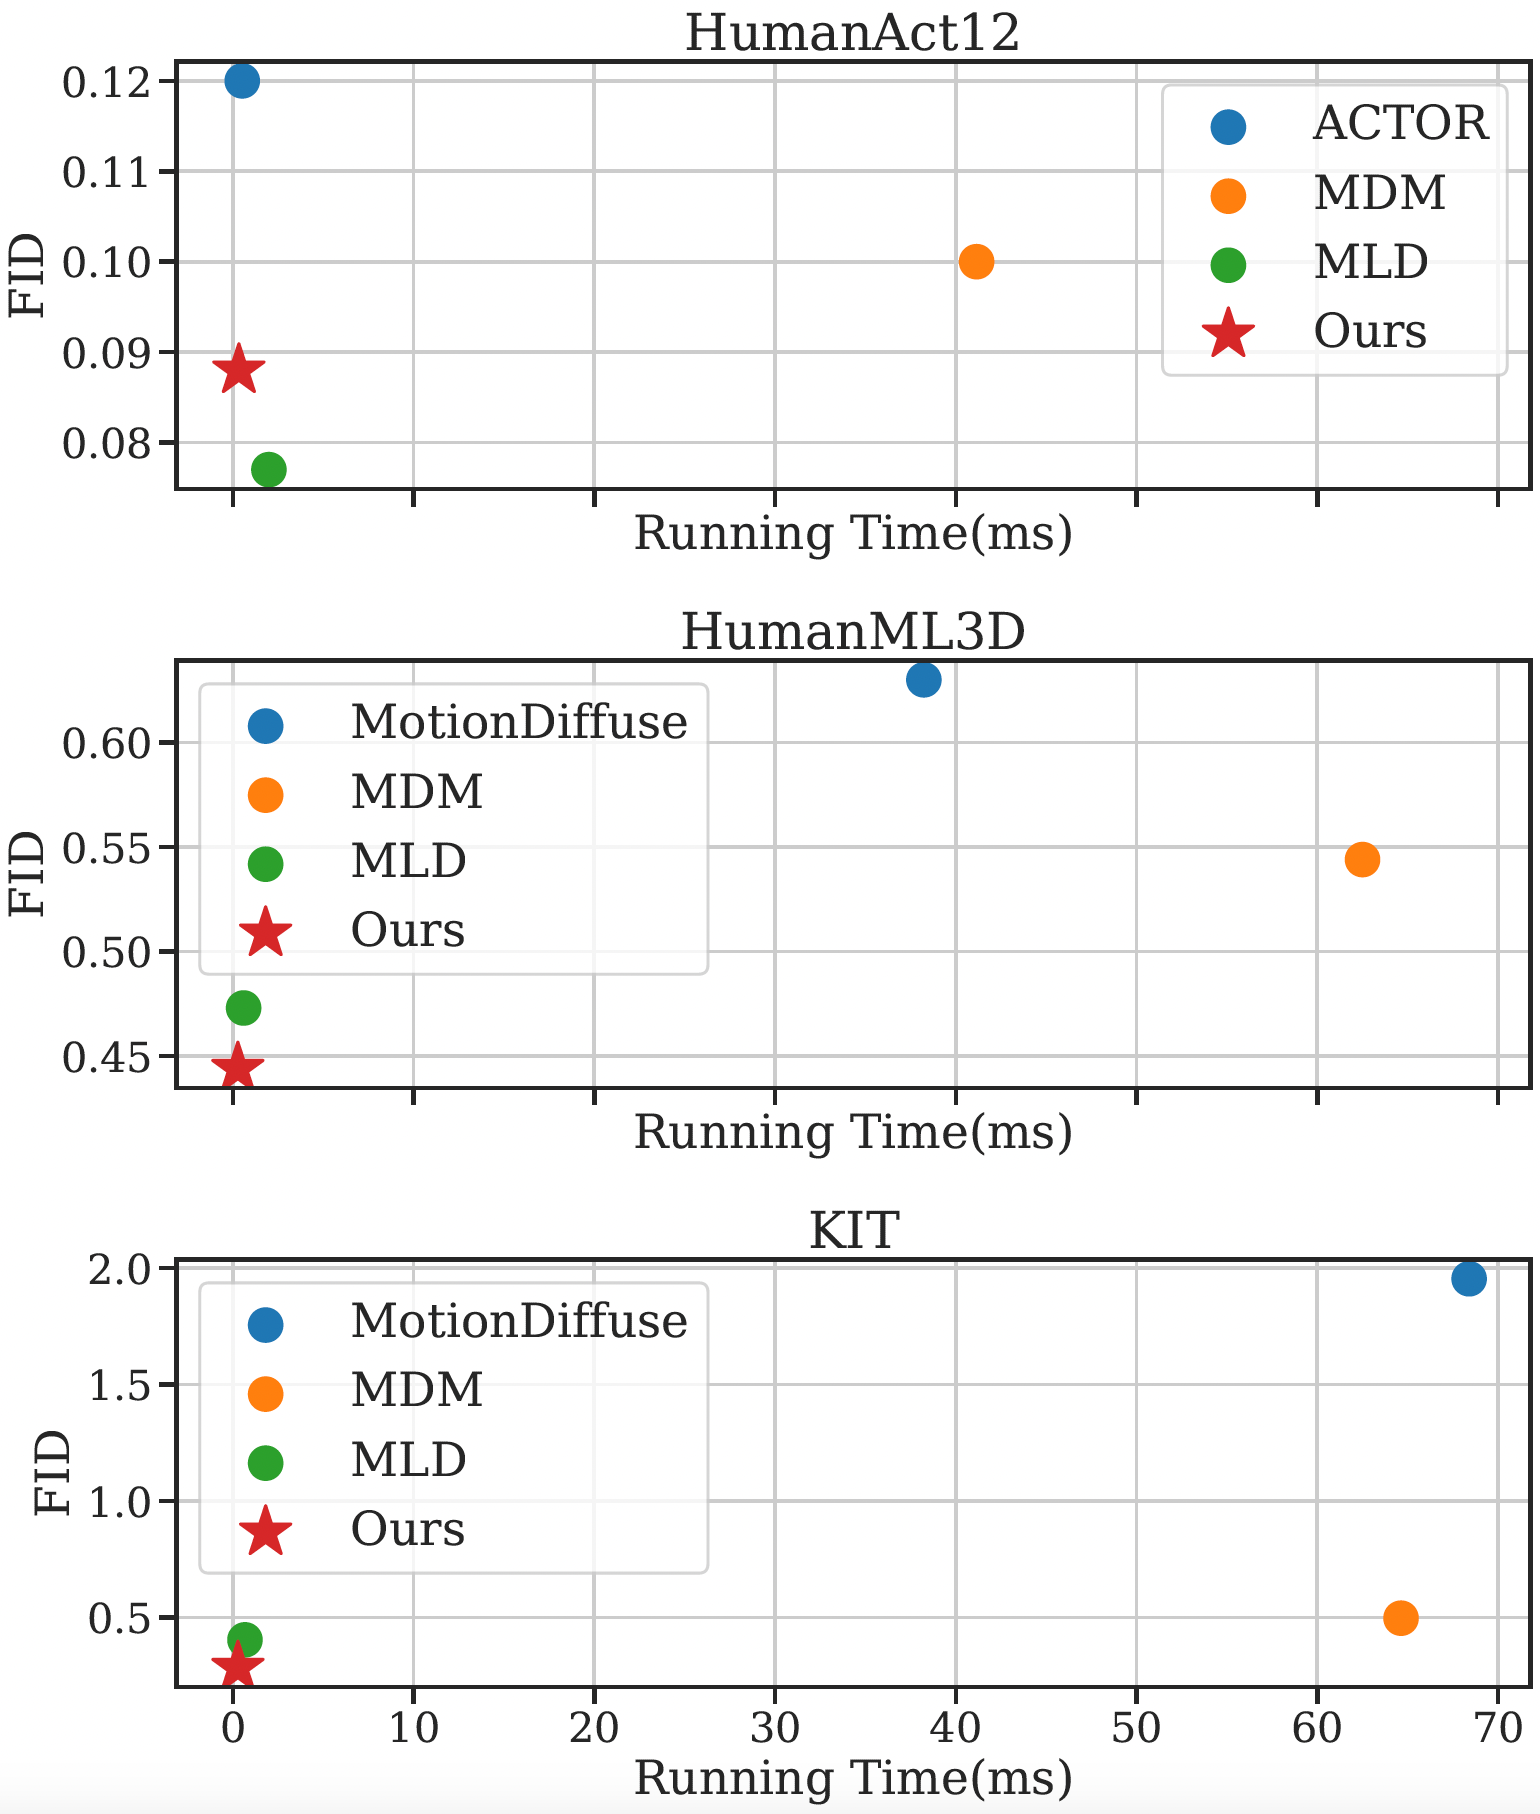
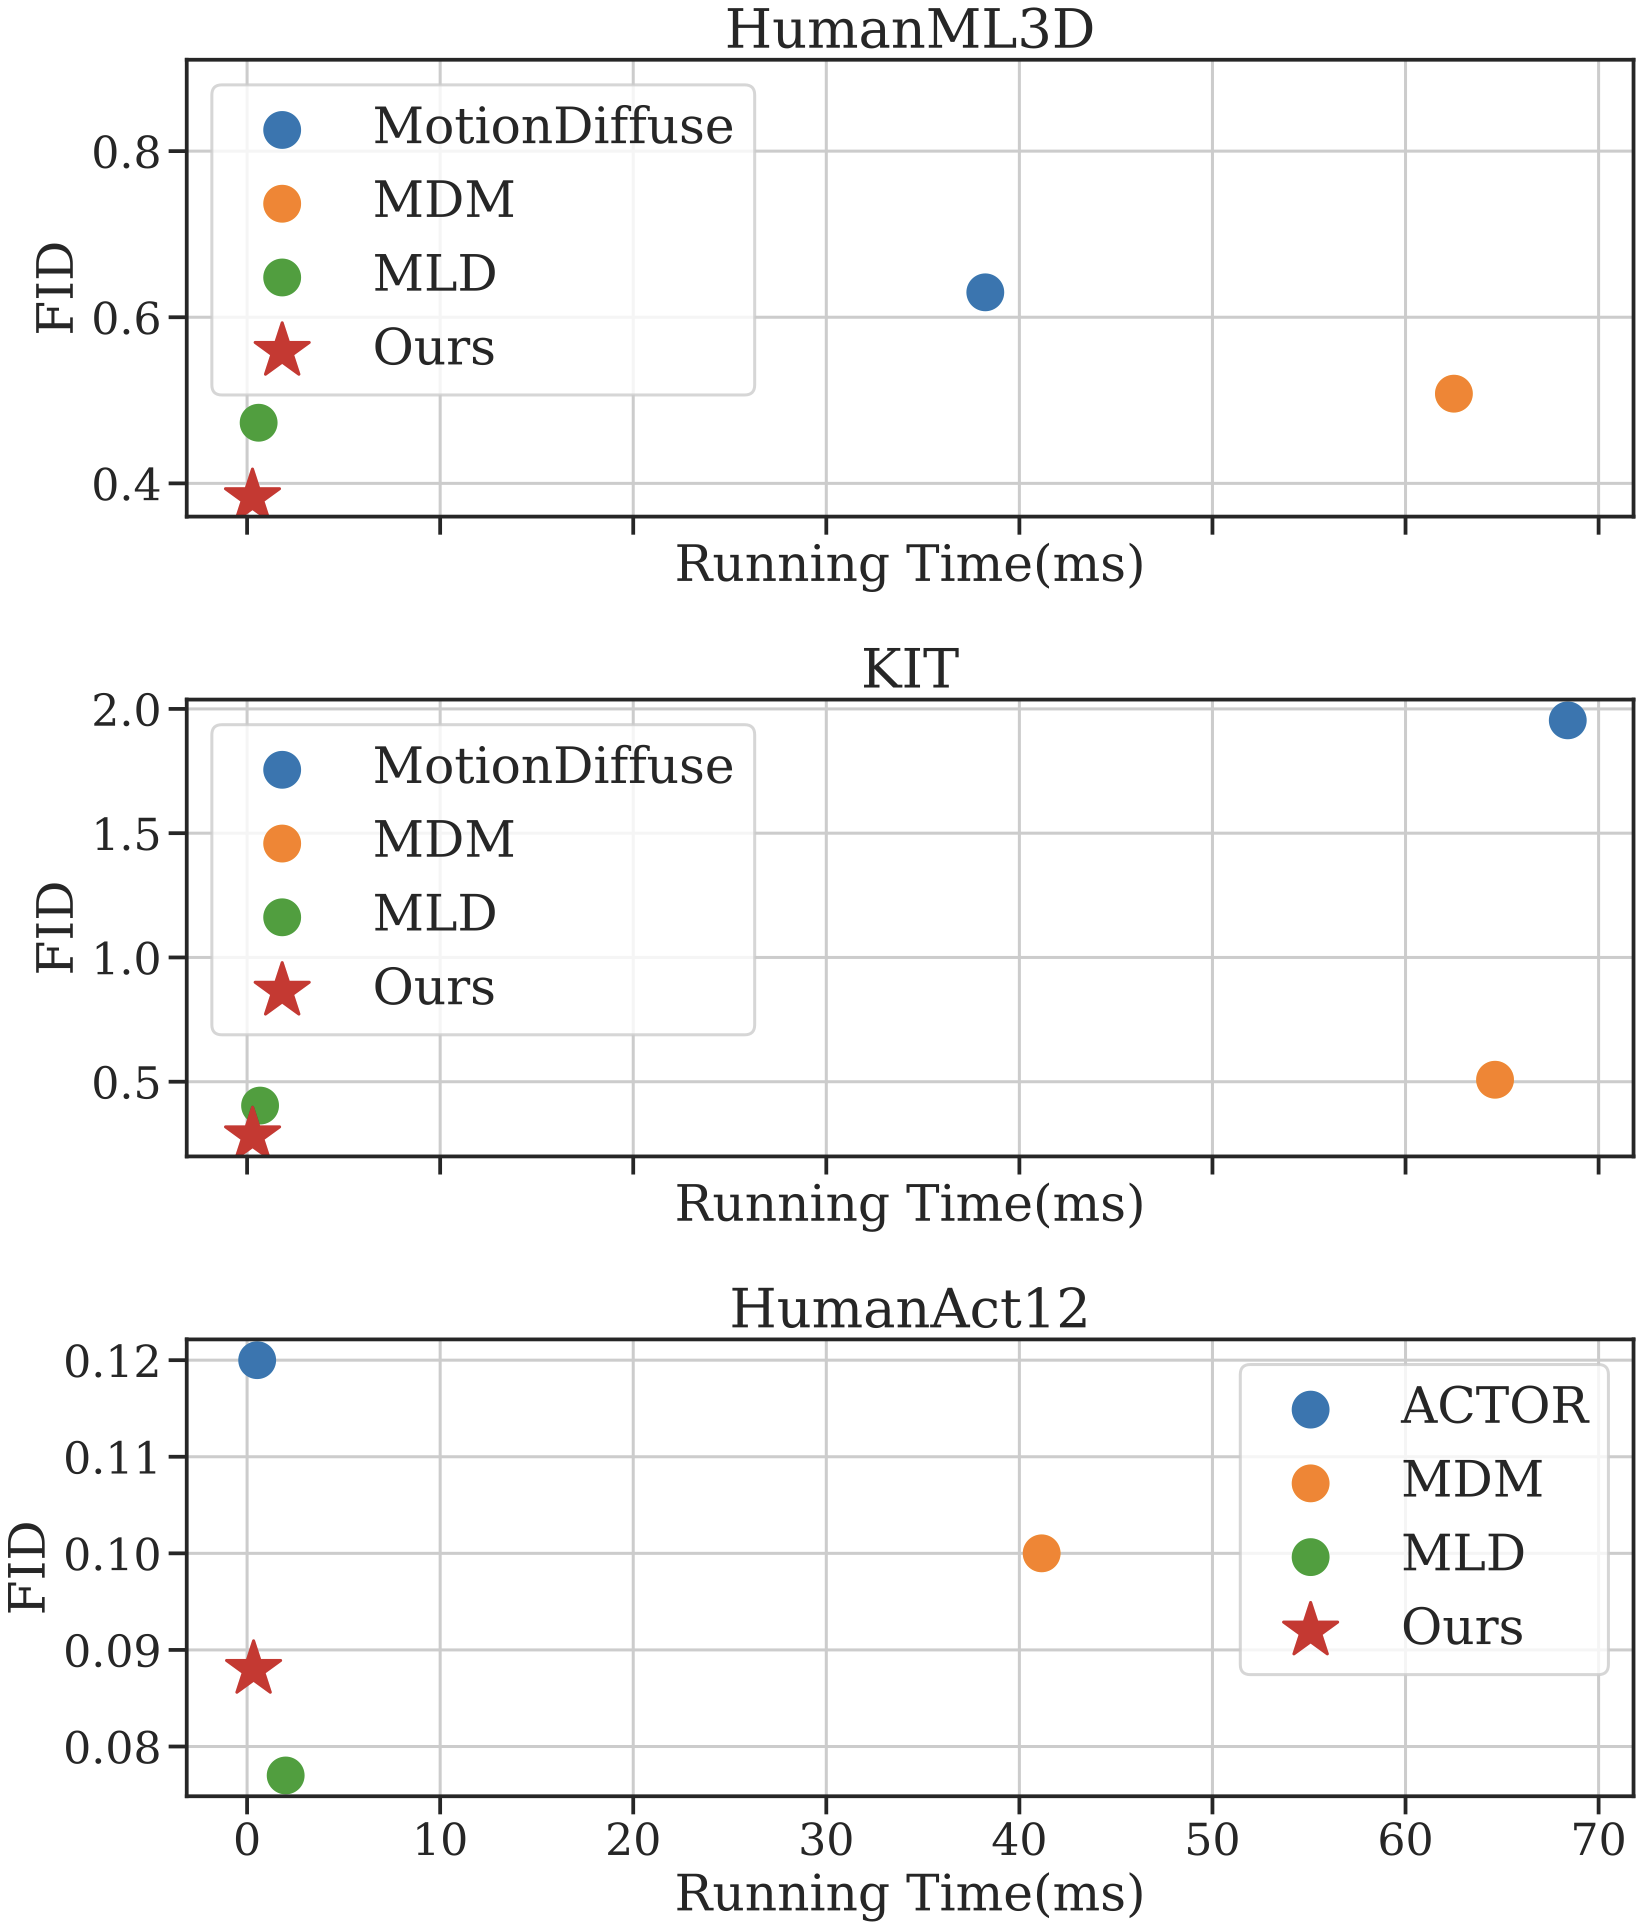
roadmap update

diff --git a/projects/EMDM/index.html b/projects/EMDM/index.html
@@ -163,7 +163,7 @@ We introduce Efficient Motion Diffusion Model (EMDM) for fast and high-quality h
 
 					</div>
 				</center>
-				<p>Overall comparison of the inference time costs on HumanAct12, HumanML3D and KIT. We compare the running time per frame v.s. the FID of four SOTA  methods.</p>
+				<p>Overall comparison of the inference time costs on HumanML3D, KIT and HumanAct12. We compare the running time per frame v.s. the FID of four SOTA  methods.</p>
 			</div>
 
 
